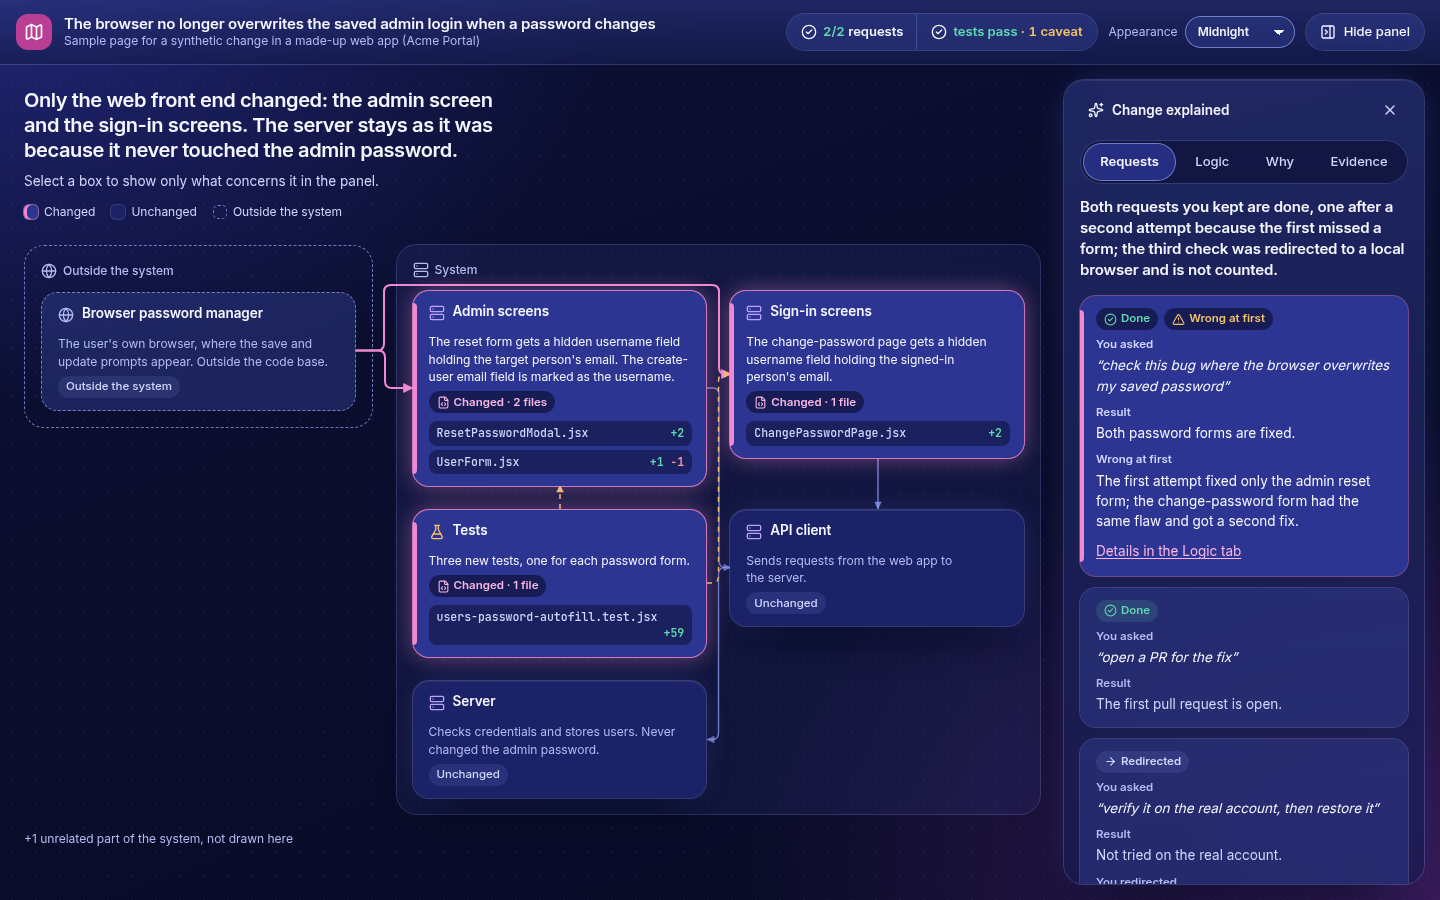
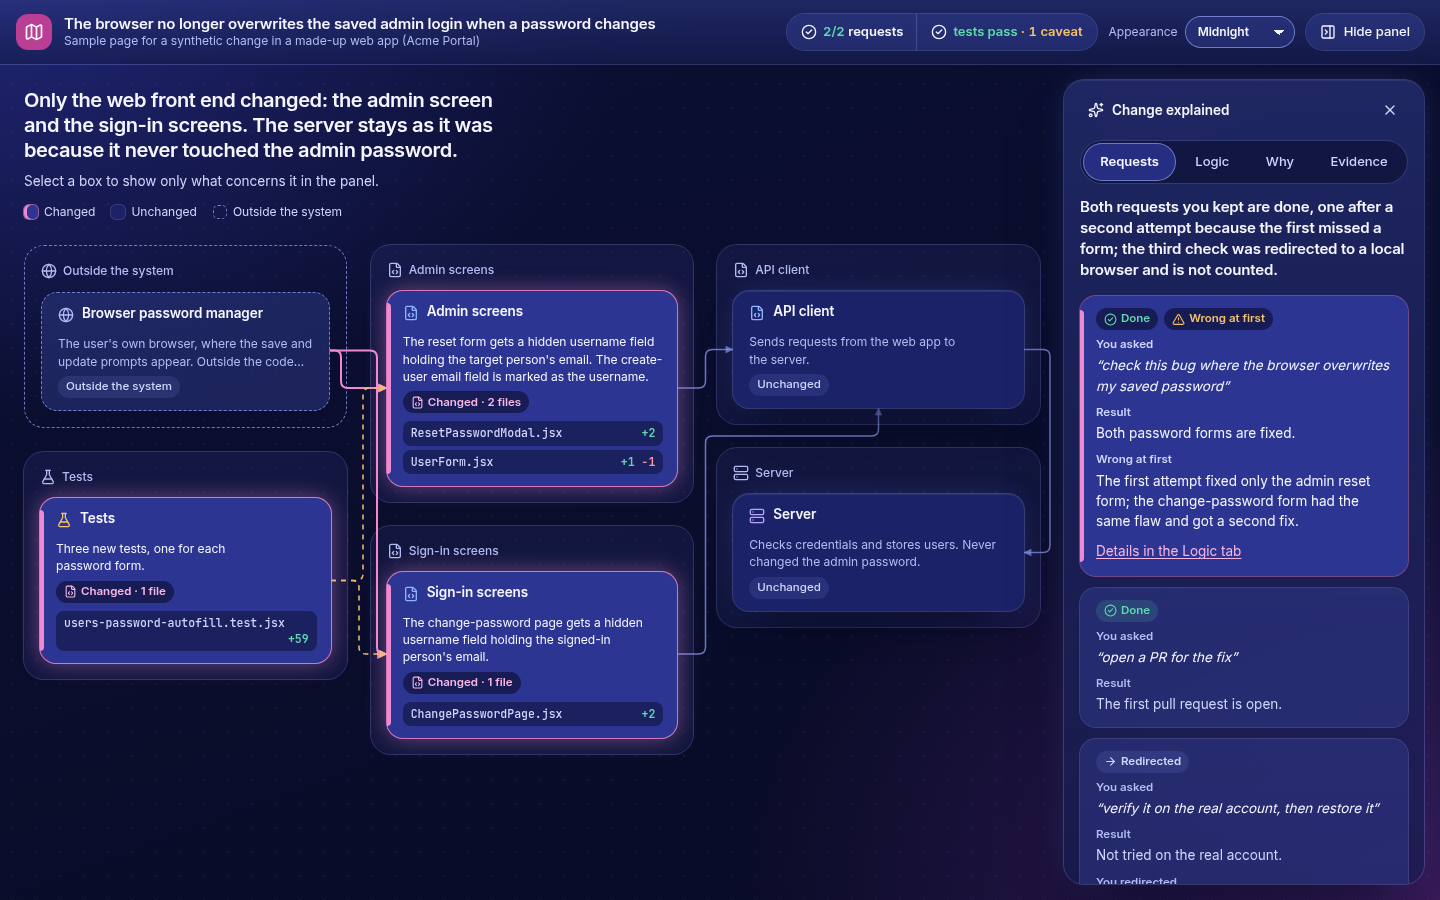
fix(tests): sample_env no longer deletes or overwrites what it did not write
Build the throwaway repo and HOME in a temp dir removed in a finally; write only change/ and session/ under OUT, and only when absent or marked by an earlier run. A bad output path exits 1 with one line. Drop the undrawn root node from the synthetic architecture so the change page has no 'not drawn here' footnote, and re-shoot logic.png, the change-* images and navy (paint seam).

Changed region(s): [[0.0, 0.28, 0.75, 0.9022], [0.0312, 0.9022, 0.0625, 0.9333]]

diff --git a/tests/sample_env.py b/tests/sample_env.py
@@ -3,7 +3,7 @@
 HOME whose ~/.claude/projects holds the two synthetic transcripts. The readers accept a transcript only inside the harness's own folder, so
 the samples are checked through the real path (no flag, no override), only with HOME pointing at a temp dir.
 
-    python3 tests/sample_env.py OUT [--theme ID]   builds OUT/env and renders both checked pages: OUT/change/index.html and OUT/session/index.html
+    python3 tests/sample_env.py OUT [--theme ID]   renders both checked pages: OUT/change/index.html and OUT/session/index.html
 """
 import argparse
 import json
@@ -11,6 +11,7 @@ import os
 import shutil
 import subprocess
 import sys
+import tempfile
 
 HERE = os.path.dirname(os.path.abspath(__file__))
 SKILL = os.path.join(os.path.dirname(HERE), 'skills', 'explain-change')
@@ -37,16 +38,15 @@ KINDS = {'browser': 'external', 'web.admin': 'feature', 'web.auth': 'feature', '
 
 
 def architecture():
-    """floorplan/architecture.json of the synthetic repo, taken from the change sample's own map so the module ids cannot drift."""
+    """floorplan/architecture.json of the synthetic repo, taken from the change sample's own map so the module ids cannot drift. Every node is a module the map draws: a node the map does not draw (a root "System" node, say) would show as "+1 unrelated part"."""
     with open(CHANGE, encoding='utf-8') as fh:
         m = json.load(fh)['map']
     nodes = []
     for x in (x for x in m['modules'] if not x.get('outside')):  # a module marked outside is not in the code base
-        n = {'id': x['id'], 'parent': 'acme', 'label': x['name'], 'kind': KINDS[x['id']], 'summary': x['summary']}
+        n = {'id': x['id'], 'label': x['name'], 'kind': KINDS[x['id']], 'summary': x['summary']}
         if x['id'] in PATHS:
             n['paths'] = PATHS[x['id']]
         nodes.append(n)
-    nodes.insert(0, {'id': 'acme', 'label': 'System', 'kind': 'service', 'summary': 'The whole made-up web app.', 'paths': ['src/**', 'server/**', 'tests/**']})
     return {'project': {'name': 'Acme Portal'}, 'nodes': nodes, 'edges': [{'from': e['from'], 'to': e['to'], 'kind': 'data', 'label': e.get('label', 'uses')} for e in m['edges'] if 'browser' not in (e['from'], e['to'])]}
 
 
@@ -111,23 +111,59 @@ def script(name, *args, home, check=False):
     return p
 
 
-def main():
+SUBS = ('change', 'session')
+MARKER = '.sample_env'  # written into each page folder the tool creates; a folder without it is not the tool's and is never overwritten
+
+
+def fail(msg):
+    print('sample_env: ' + msg, file=sys.stderr)
+    return 1
+
+
+def claim(path):
+    """None when the tool may write the page folder `path` (absent, or marked by an earlier run); else the reason it may not."""
+    if not os.path.lexists(path):
+        return None
+    if os.path.isdir(path) and not os.path.islink(path) and os.path.isfile(os.path.join(path, MARKER)):
+        return None
+    return '%s exists and is not a sample folder of this tool; remove it or pick another output folder' % path
+
+
+def main(argv=None):
     ap = argparse.ArgumentParser(description=__doc__.split('\n\n')[0])
     ap.add_argument('out')
     ap.add_argument('--theme', default=None)
-    a = ap.parse_args()
+    a = ap.parse_args(argv)
     out = os.path.abspath(a.out)
-    home, repo = os.path.join(out, 'env', 'home'), os.path.join(out, 'env', 'repo')
-    shutil.rmtree(os.path.join(out, 'env'), ignore_errors=True)
-    build_repo(repo)
-    build_home(home)
+    for sub in SUBS:
+        why = claim(os.path.join(out, sub))
+        if why:
+            return fail(why)
     theme = ['--theme', a.theme] if a.theme else []
-    for doc, sub in ((CHANGE, 'change'), (SESSION, 'session')):
-        os.makedirs(os.path.join(out, sub), exist_ok=True)
-        page = os.path.join(out, sub, 'index.html')
-        p = script('render.py', doc, '--repo', repo, '--out', page, '--text', *theme, home=home, check=True)
-        print(p.stdout.strip())
+    work = tempfile.mkdtemp(prefix='sample-env-')  # the git repo, the HOME and the first render live here, never under OUT
+    try:
+        home, repo = os.path.join(work, 'home'), os.path.join(work, 'repo')
+        build_repo(repo)
+        build_home(home)
+        for doc, sub in ((CHANGE, 'change'), (SESSION, 'session')):
+            os.makedirs(os.path.join(work, 'pages', sub))
+            script('render.py', doc, '--repo', repo, '--out', os.path.join(work, 'pages', sub, 'index.html'), '--text', *theme, home=home, check=True)
+        try:
+            os.makedirs(out, exist_ok=True)
+            for sub in SUBS:
+                dest = os.path.join(out, sub)
+                if os.path.isdir(dest):
+                    shutil.rmtree(dest)  # marked by claim(): the tool's own earlier output
+                shutil.copytree(os.path.join(work, 'pages', sub), dest)
+                with open(os.path.join(dest, MARKER), 'w', encoding='utf-8') as fh:
+                    fh.write('written by tests/sample_env.py\n')
+                print(os.path.join(dest, 'index.html'))
+        except OSError as e:
+            return fail('cannot write to %s: %s' % (out, e.strerror or e))
+    finally:
+        shutil.rmtree(work, ignore_errors=True)
+    return 0
 
 
 if __name__ == '__main__':
-    main()
+    sys.exit(main())

diff --git a/tests/test_samples_checked.py b/tests/test_samples_checked.py
@@ -101,6 +101,13 @@ class Pages(Case):
             with open(f, encoding='utf-8') as fh:
                 self.assertIsNone(UNCHECKED.search(fh.read()), f)
 
+    def test_the_rendered_change_page_draws_every_module_of_the_architecture(self):
+        for f in self.render('change'):
+            with open(f, encoding='utf-8') as fh:
+                text = fh.read()
+            self.assertNotIn('not drawn here', text, f)
+            self.assertNotIn('class="hidden-note"', text, f)
+
     def test_the_rendered_session_page_and_its_change_page_do_not_say_it_is_not_checked(self):
         files = self.render('session')
         self.assertEqual(len(files), 4)  # the session page, the change page it links, and the text of each
@@ -113,6 +120,67 @@ class Pages(Case):
         with open(txt, encoding='utf-8') as fh:
             text = fh.read()
         self.assertNotIn("agent's own", text)
+
+
+class SampleEnvCli(unittest.TestCase):
+    """tests/sample_env.py OUT writes only its two page folders: nothing else under OUT is touched, and a folder it did not create is never replaced."""
+
+    def setUp(self):
+        self.out = tempfile.mkdtemp(prefix='sample-env-cli-', dir='/tmp')
+        self.addCleanup(shutil.rmtree, self.out, True)
+
+    def run_cli(self, out=None, *extra):
+        return subprocess.run([sys.executable, os.path.join(HERE, 'sample_env.py'), out or self.out, *extra], capture_output=True, text=True)
+
+    def plant(self, *rel):
+        path = os.path.join(self.out, *rel)
+        os.makedirs(os.path.dirname(path), exist_ok=True)
+        with open(path, 'w', encoding='utf-8') as fh:
+            fh.write('mine')
+        return path
+
+    def assertOneLine(self, p):
+        self.assertEqual(p.returncode, 1, p.stdout + p.stderr)
+        self.assertEqual(len(p.stderr.strip().splitlines()), 1, p.stderr)
+        self.assertNotIn('Traceback', p.stderr)
+
+    def test_an_env_folder_in_the_output_folder_is_left_alone(self):
+        keep = self.plant('env', 'pyvenv.cfg')
+        p = self.run_cli()
+        self.assertEqual(p.returncode, 0, p.stdout + p.stderr)
+        with open(keep, encoding='utf-8') as fh:
+            self.assertEqual(fh.read(), 'mine')
+        self.assertEqual(sorted(os.listdir(self.out)), ['change', 'env', 'session'])  # no repo, no HOME left behind
+
+    def test_the_pages_are_written_and_a_second_run_replaces_them(self):
+        for _ in range(2):
+            p = self.run_cli()
+            self.assertEqual(p.returncode, 0, p.stdout + p.stderr)
+            self.assertTrue(os.path.isfile(os.path.join(self.out, 'change', 'index.html')))
+            self.assertTrue(os.path.isfile(os.path.join(self.out, 'session', 'index.html')))
+
+    def test_a_change_folder_the_tool_did_not_write_is_refused(self):
+        keep = self.plant('change', 'notes.txt')
+        p = self.run_cli()
+        self.assertOneLine(p)
+        self.assertIn(os.path.join(self.out, 'change'), p.stderr)
+        self.assertTrue(os.path.isfile(keep))
+        self.assertFalse(os.path.exists(os.path.join(self.out, 'session')))
+
+    def test_a_session_folder_the_tool_did_not_write_is_refused_before_anything_is_written(self):
+        keep = self.plant('session', 'notes.txt')
+        p = self.run_cli()
+        self.assertOneLine(p)
+        self.assertIn(os.path.join(self.out, 'session'), p.stderr)
+        self.assertTrue(os.path.isfile(keep))
+        self.assertFalse(os.path.exists(os.path.join(self.out, 'change')))
+
+    def test_a_file_named_change_is_refused(self):
+        self.plant('change')
+        self.assertOneLine(self.run_cli())
+
+    def test_a_bad_output_path_is_one_line_not_a_traceback(self):
+        self.assertOneLine(self.run_cli('/dev/null/x'))
 
 
 class Controls(Case):

diff --git a/tests/red_check.py b/tests/red_check.py
@@ -42,6 +42,14 @@ MUTATIONS = [
      'test_guard.LowLevelGitCalls.test_changed_ranges_refuses_option'),
     ('read_version takes only object ids', 'scripts/lib/gitio.py', "    if not re.fullmatch(r'[0-9a-f]{40,64}', rev):", '    if False:',
      'test_guard.LowLevelGitCalls.test_read_version_needs_an_object_id'),
+    ('sample_env: scratch repo outside OUT', '../../tests/sample_env.py', "work = tempfile.mkdtemp(prefix='sample-env-')", "work = os.path.join(out, 'env'); shutil.rmtree(work, ignore_errors=True)",
+     'test_samples_checked.SampleEnvCli.test_an_env_folder_in_the_output_folder_is_left_alone'),
+    ('sample_env: unmarked page folder refused', '../../tests/sample_env.py', "os.path.isfile(os.path.join(path, MARKER))", 'True',
+     'test_samples_checked.SampleEnvCli.test_a_change_folder_the_tool_did_not_write_is_refused'),
+    ('sample_env: bad output path is one line', '../../tests/sample_env.py', 'except OSError as e:', 'except ZeroDivisionError as e:',
+     'test_samples_checked.SampleEnvCli.test_a_bad_output_path_is_one_line_not_a_traceback'),
+    ('sample_env: architecture has no undrawn node', '../../tests/sample_env.py', "    nodes = []\n", "    nodes = [{'id': 'acme', 'label': 'System', 'kind': 'service', 'summary': 'x', 'paths': ['src/**']}]\n",
+     'test_samples_checked.Pages.test_the_rendered_change_page_draws_every_module_of_the_architecture'),
 ]
 
 

diff --git a/CHANGELOG.md b/CHANGELOG.md
@@ -7,7 +7,7 @@ All notable changes to this project are documented here. The format follows
 ## [Unreleased]
 
 ### Added
-- Synthetic Claude Code transcripts for the change and session samples (`references/examples/password-autofill.v2.transcript.jsonl`, `portal-day.session.transcript.jsonl`; made-up Acme Portal content only). The samples now validate `ok` against them, and their pages are the checked pages: no "Not checked" badge or note. `tests/sample_env.py` builds the throwaway git repo and `HOME` (the transcript folder limit is unchanged) and renders both pages; `tests/test_samples_checked.py` pins it.
+- Synthetic Claude Code transcripts for the change and session samples (`references/examples/password-autofill.v2.transcript.jsonl`, `portal-day.session.transcript.jsonl`; made-up Acme Portal content only). The samples now validate `ok` against them, and their pages are the checked pages: no "Not checked" badge or note. `tests/sample_env.py` builds the throwaway git repo and `HOME` in a temporary folder, writes only `change/` and `session/` under the output folder and refuses to replace a folder it did not write (the transcript folder limit is unchanged) and renders both pages; `tests/test_samples_checked.py` pins it.
 - A sixth colour theme, `midnight`, in the colours of the intro video: glassy gradient surfaces, a lit ring and faint violet and blue glows in the corners of the page. It is on the session page, the change page and the flow page, and keeps the contrast of the other themes.
 
 ### Changed

diff --git a/docs/modes.md b/docs/modes.md
@@ -8,7 +8,7 @@ The skill has three modes. Each renders one offline HTML page in the same six co
 | Session | "summarize this session" | a session transcript | `explain-session/1` |
 | Flow | "how does X work", "luồng này chạy thế nào" | the code at one commit | `explain-flow/1` |
 
-The agent follows [SKILL.md](../skills/explain-change/SKILL.md). Each command below renders a bundled sample. The change and session samples are checked against synthetic transcripts (`references/examples/*.transcript.jsonl`); the readers take a transcript only inside the harness's own folder, so the helper `tests/sample_env.py` builds a throwaway git repo and a throwaway `HOME` that holds the transcripts under `~/.claude/projects/`. The flow sample needs neither.
+The agent follows [SKILL.md](../skills/explain-change/SKILL.md). Each command below renders a bundled sample. The change and session samples are checked against synthetic transcripts (`references/examples/*.transcript.jsonl`); the readers take a transcript only inside the harness's own folder, so the helper `tests/sample_env.py` builds a throwaway git repo and a throwaway `HOME` (in a temporary folder, removed afterwards) that hold the transcripts under `~/.claude/projects/`. The flow sample needs neither.
 
 ## Change
 

diff --git a/README.md b/README.md
@@ -35,7 +35,7 @@ One script links the skill for Claude Code, Codex, Gemini CLI, Copilot, Cursor, 
 
 ## Quick start
 
-After any agent edit, ask your agent: "explain this change". For a whole session say "summarize this session", and for existing code "how does X work". It collects the evidence, writes and checks the doc, and gives you the path of the page. To see the bundled change and session samples, each checked against its synthetic transcript, run the helper below. It builds a throwaway git repo and a throwaway `HOME` under the output folder and touches nothing else:
+After any agent edit, ask your agent: "explain this change". For a whole session say "summarize this session", and for existing code "how does X work". It collects the evidence, writes and checks the doc, and gives you the path of the page. To see the bundled change and session samples, each checked against its synthetic transcript, run the helper below. It builds a throwaway git repo and a throwaway `HOME` in a temporary folder that it removes afterwards, and writes only `change/` and `session/` under the output folder. It refuses, with one line, to replace a `change/` or `session/` it did not write on an earlier run:
 
 ```bash
 python3 tests/sample_env.py /tmp/samples
